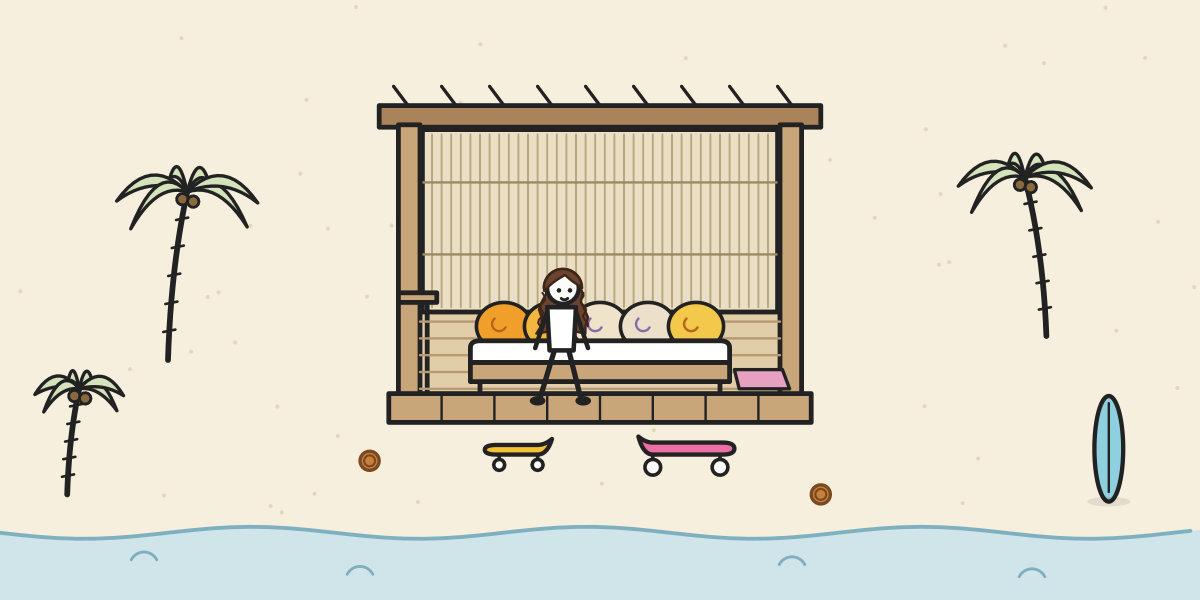
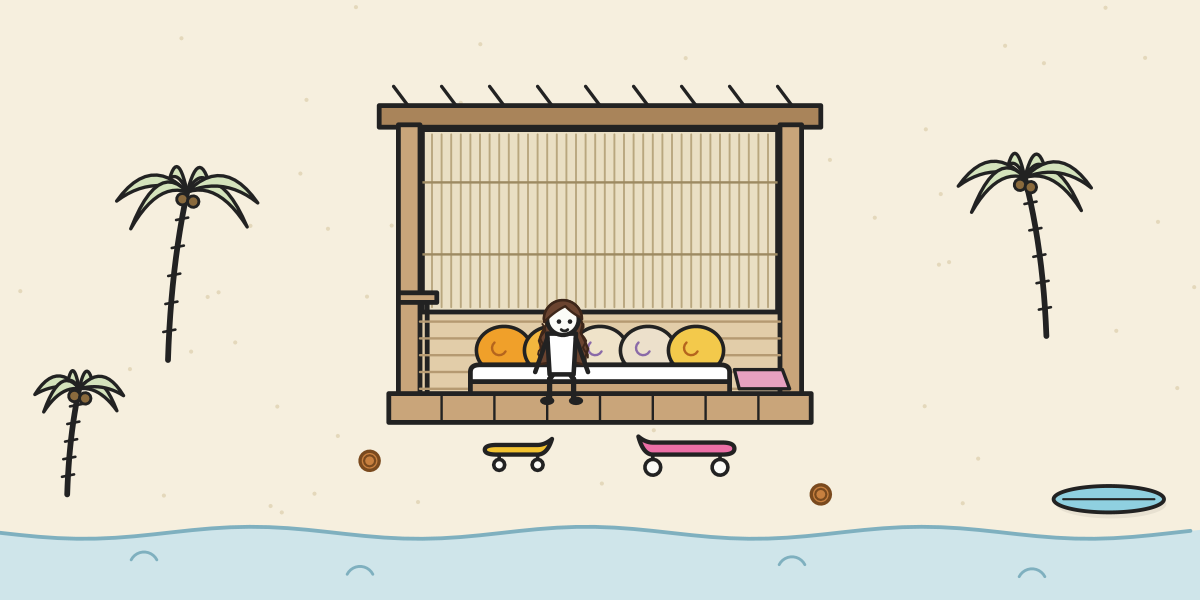
Penny boards: same proportions in every pose, quicker level 2

Changed region(s): [[0.37, 0.45, 0.6167, 0.69], [0.8633, 0.66, 0.9867, 0.87]]

diff --git a/_posts/2026-10-30-the-girl-with-the-penny-boards.md b/_posts/2026-10-30-the-girl-with-the-penny-boards.md
@@ -436,7 +436,7 @@ A short game-poem, written after Wordle's answer turned out to be “penny” an
   // her veranda: posts, a bamboo blind, the daybed with its white mattress
   // and batik pillows, and the pink mat by the door. (bx, by) is the front edge
   // of the deck; she sits on the mattress at SEAT height above it.
-  var SEAT = 27;
+  var SEAT = 17;
   function drawVeranda(bx, by){
     pen(INK, 2);
     box(bx - 92, by - 128, 184, 9, WOOD_D);
@@ -455,8 +455,7 @@ A short game-poem, written after Wordle's answer turned out to be “penny” an
     pen(INK, 1); for (var pl=bx - 66; pl < bx + 88; pl += 22) ln(pl, by - 8, pl, by + 4);
     // daybed
     pen(INK, 2);
-    ln(bx - 50, by - SEAT + 14, bx - 50, by - 8); ln(bx + 50, by - SEAT + 14, bx + 50, by - 8);
-    box(bx - 54, by - SEAT + 6, 108, 8, WOOD);
+    box(bx - 54, by - SEAT + 4, 108, 5, WOOD);
     var cols = ['#f0a02a', '#f3b63e', '#efe3c9', '#ece0cb', '#f3c94b'];
     for (var p=0;p<5;p++){
       var px = bx - 40 + p*20;
@@ -465,8 +464,8 @@ A short game-poem, written after Wordle's answer turned out to be “penny” an
       pen(p < 2 || p === 4 ? '#b5651d' : '#8a6aa8', 1); ctx.beginPath(); ctx.arc(px - 2, by - SEAT - 10, 3, 0.5, 4); ctx.stroke();
     }
     pen(INK, 2);
-    ctx.beginPath(); ctx.moveTo(bx - 54, by - SEAT + 6); ctx.lineTo(bx - 54, by - SEAT); ctx.quadraticCurveTo(bx - 54, by - SEAT - 3, bx - 50, by - SEAT - 3);
-    ctx.lineTo(bx + 50, by - SEAT - 3); ctx.quadraticCurveTo(bx + 54, by - SEAT - 3, bx + 54, by - SEAT); ctx.lineTo(bx + 54, by - SEAT + 6); ctx.closePath();
+    ctx.beginPath(); ctx.moveTo(bx - 54, by - SEAT + 4); ctx.lineTo(bx - 54, by - SEAT); ctx.quadraticCurveTo(bx - 54, by - SEAT - 3, bx - 50, by - SEAT - 3);
+    ctx.lineTo(bx + 50, by - SEAT - 3); ctx.quadraticCurveTo(bx + 54, by - SEAT - 3, bx + 54, by - SEAT); ctx.lineTo(bx + 54, by - SEAT + 4); ctx.closePath();
     ctx.fillStyle = '#ffffff'; ctx.fill(); ctx.stroke();
     // the pink mat on the floor by the door
     pen(INK, 1.4); ctx.beginPath(); ctx.moveTo(bx + 56, by - 18); ctx.lineTo(bx + 76, by - 18); ctx.lineTo(bx + 79, by - 10); ctx.lineTo(bx + 58, by - 10); ctx.closePath();
@@ -520,14 +519,19 @@ A short game-poem, written after Wordle's answer turned out to be “penny” an
     ctx.beginPath(); ctx.moveTo(x - hw, top); ctx.lineTo(x + hw, top); ctx.lineTo(x + hw - 1, bot); ctx.lineTo(x - hw + 1, bot); ctx.closePath();
     ctx.fill(); ctx.stroke();
   }
-  // seated on something sy high, feet down at fy: legs stretched out long
+  // Both bodies keep the same proportions in every pose: hip to crown is the
+  // same standing or sitting, and seated legs fold at the knee rather than
+  // stretching to reach the floor.
+  // seated on something sy high, feet down at fy
   function girlSit(gx, sy, fy, look){
-    var hx = gx + look*1.1, hy = sy - 25;
+    var hx = gx + look*1.1, hy = sy - 22;
     hairBack(hx, hy, 19);
-    pen(INK, 2.2); ln(gx - 3, sy + 1, gx - 9, fy); ln(gx + 3, sy + 1, gx + 8, fy);
-    ell(gx - 10, fy + 1, 3.3, 2); ell(gx + 9, fy + 1, 3.3, 2);
-    tee(gx, sy - 17, sy + 1, 6);
-    pen(INK, 1.9); ln(gx - 6, sy - 15, gx - 11, sy); ln(gx + 6, sy - 15, gx + 11, sy);
+    pen(INK, 2.2);
+    ln(gx - 3, sy, gx - 5, sy + 3); ln(gx - 5, sy + 3, gx - 5, fy);
+    ln(gx + 3, sy, gx + 5, sy + 3); ln(gx + 5, sy + 3, gx + 5, fy);
+    ell(gx - 6, fy + 1, 3, 1.8); ell(gx + 6, fy + 1, 3, 1.8);
+    tee(gx, sy - 16, sy + 1, 6);
+    pen(INK, 1.9); ln(gx - 6, sy - 14, gx - 11, sy); ln(gx + 6, sy - 14, gx + 11, sy);
     girlFace(hx, hy, look || 0);
   }
   function girlStand(x, y, f, step, riding){
@@ -555,7 +559,8 @@ A short game-poem, written after Wordle's answer turned out to be “penny” an
   function me(x, y, f, step, pose, moving, fy){
     pen(INK, 2.3);
     if (pose === 'sit'){
-      ln(x - 3, y, x - 5, fy); ln(x + 3, y, x + 5, fy);
+      ln(x, y, x - 5, y + 3); ln(x - 5, y + 3, x - 5, fy);
+      ln(x, y, x + 5, y + 3); ln(x + 5, y + 3, x + 5, fy);
       ln(x, y, x, y - 18);
       pen(INK, 2); ln(x, y - 15, x - 7, y - 1); ln(x, y - 15, x + 7, y - 1);
       meHead(x, y - 27, 0);
@@ -759,25 +764,26 @@ A short game-poem, written after Wordle's answer turned out to be “penny” an
       .concat([[372,192],[362,158]]).concat(quad([362,158],[356,149],[334,146],6).slice(1))
       .concat(quad([334,146],[320,164],[306,146],8).slice(1));
     var strokes = [
-      {pts:dense(legL, 3), col:INK, n:2}, {pts:dense(legR, 3), col:INK, n:2},
-      {pts:dense(head, 3), col:INK, n:5}, {pts:hair, col:HAIR, n:7}, {pts:dense(shirt, 3), col:INK, n:8}
+      {pts:dense(legL, 3), col:INK, n:1}, {pts:dense(legR, 3), col:INK, n:1},
+      {pts:dense(head, 3), col:INK, n:3}, {pts:hair, col:HAIR, n:4}, {pts:dense(shirt, 3), col:INK, n:4}
     ];
+    // every penny draws a share of its stroke, the last one finishing it
     var coins = [];
     strokes.forEach(function(st, si){
-      for (var k=0;k<st.n;k++){
-        var idx = Math.round(k*(st.pts.length - 1)/(st.n - 1));
+      for (var k=1;k<=st.n;k++){
+        var idx = Math.round(k*(st.pts.length - 1)/st.n);
         coins.push({x:st.pts[idx][0], y:st.pts[idx][1], s:si, idx:idx, got:false});
       }
     });
     S.strokes = strokes; S.coins = coins;
   }
   LV.push({
-    init: function(){ portrait(); S.next = 0; S.parts = []; S.lit = 0; P = newPlayer(70, 372); },
+    init: function(){ portrait(); S.next = 0; S.parts = []; S.lit = 0; P = newPlayer(200, 330); },
     update: function(D, live){
-      walk(D, 1.4); bounds(P, 10, 50, W-10, H-6);   // a brisker walk: the outline is long
+      walk(D, 1.6); bounds(P, 10, 50, W-10, H-6);   // a brisker walk: the outline is long
       if (live){
         var c = S.coins[S.next];
-        if (c && dist(P.x, P.y - 8, c.x, c.y) < 15){
+        if (c && dist(P.x, P.y - 8, c.x, c.y) < 18){
           c.got = true; S.next++; sparkle(S.parts, c.x, c.y, 6);
           if (S.next >= S.coins.length) complete();
         }
